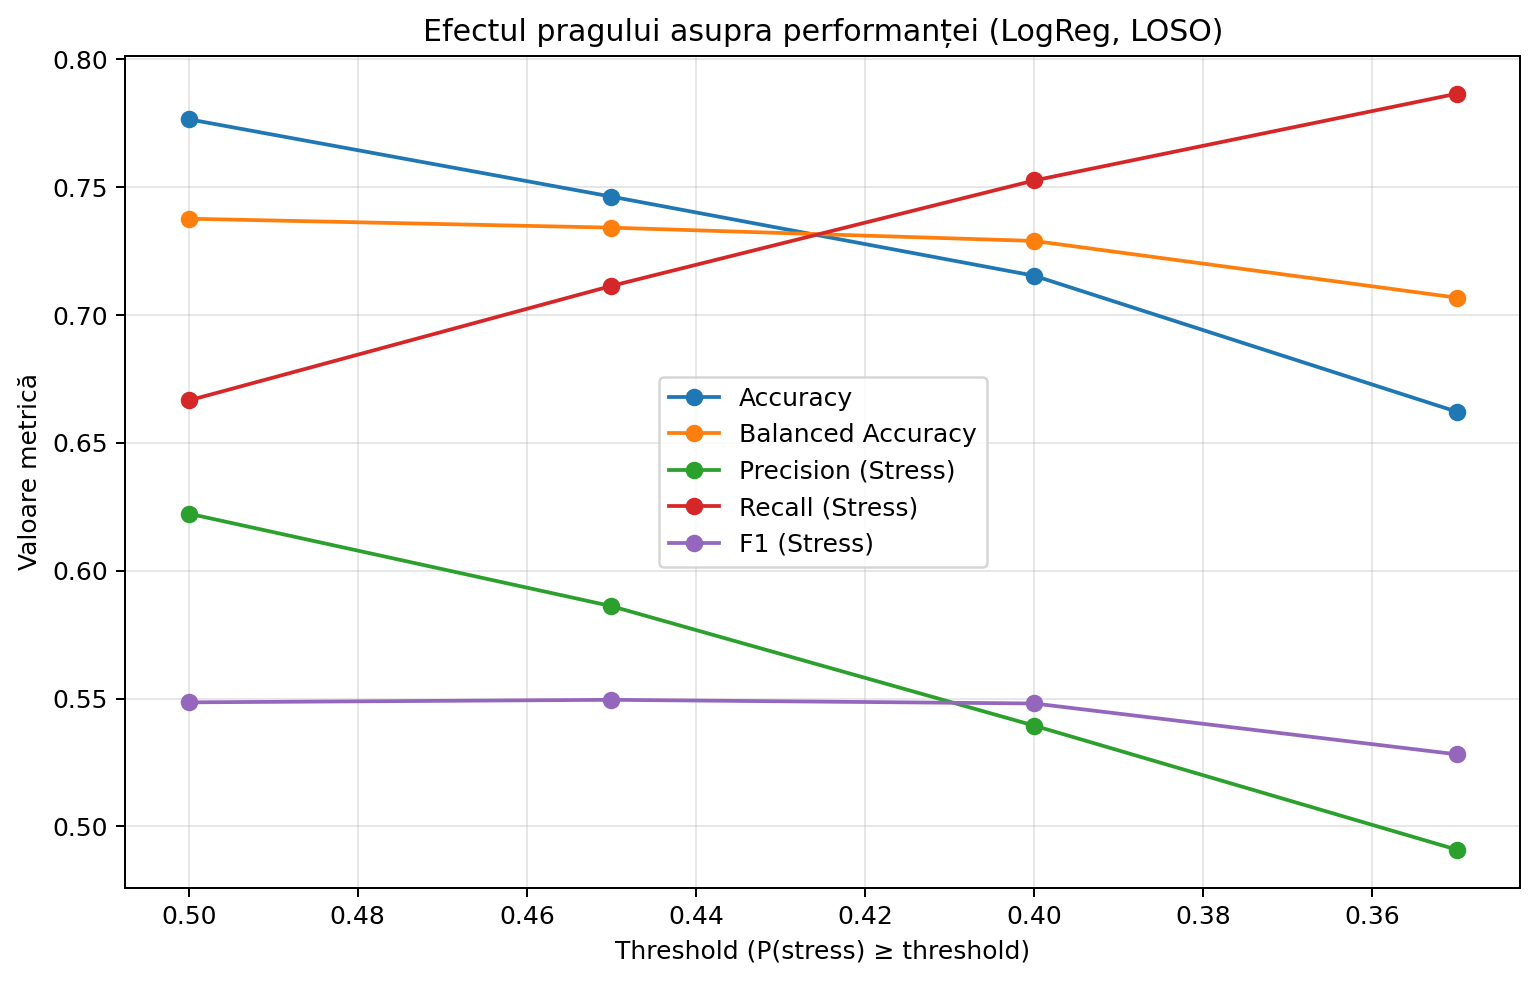
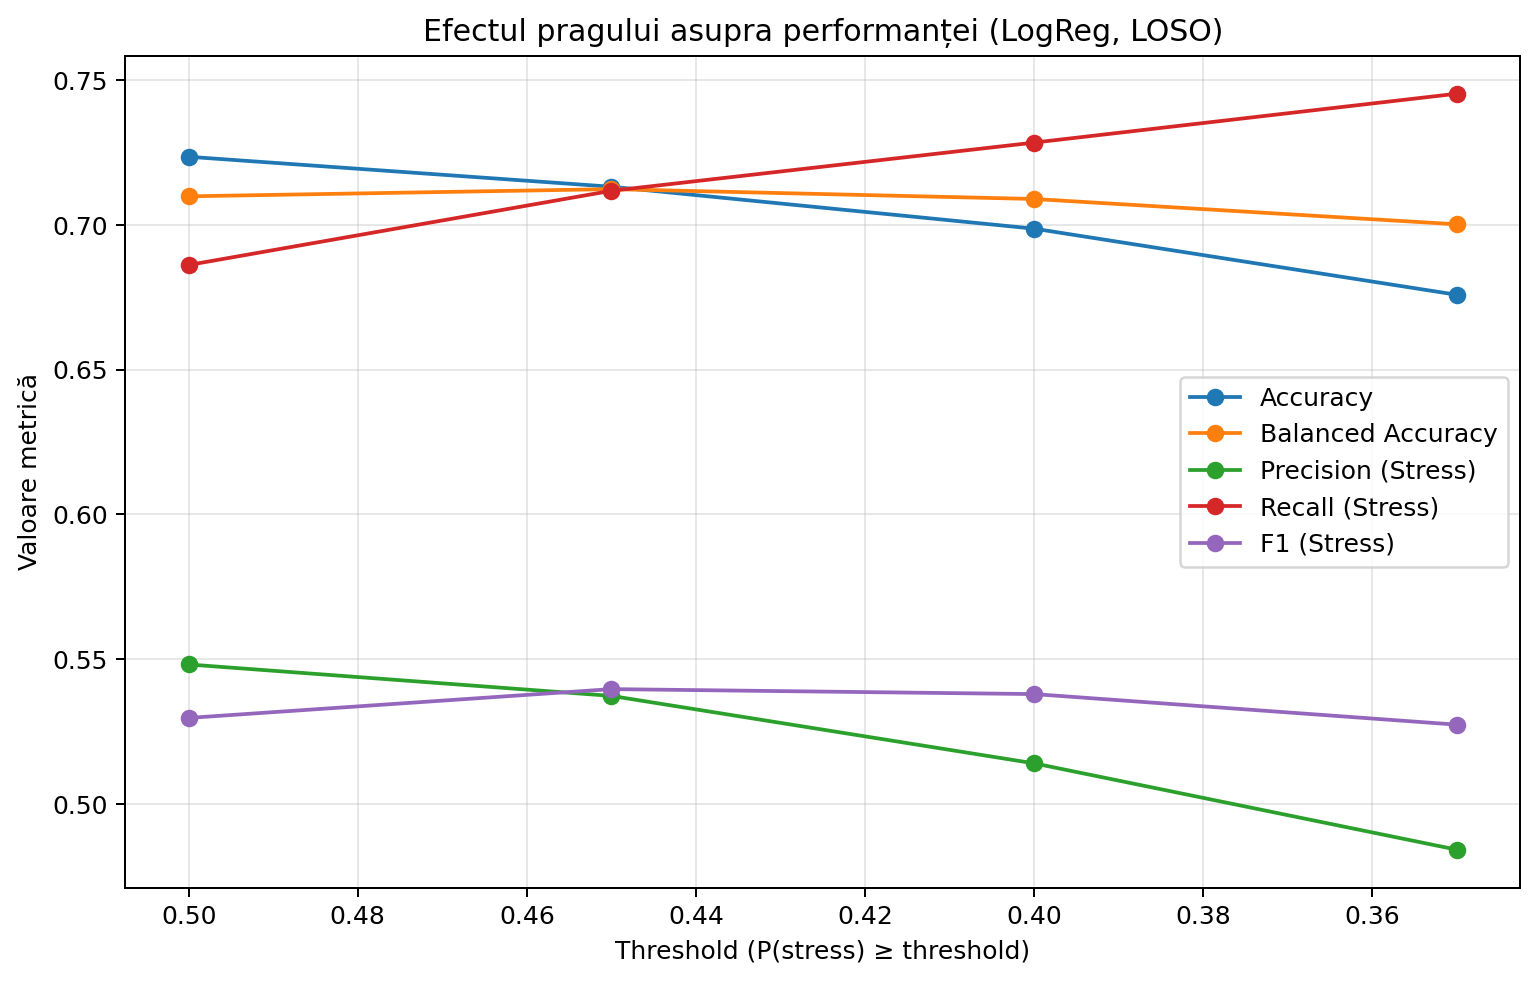
Am adaugat svm si featureile bune, nu cele de test

diff --git a/build_dataset.py b/build_dataset.py
@@ -7,50 +7,53 @@ import pandas as pd
 from preprocesare._01_incarcare_taiere import load_data_wesad, cut_30s, map_labels_to_binary_vector
 from preprocesare._02_filtrare_semnale import filter_eda, filter_bvp, filter_acc, filter_temp
 from feature_extraction._01_ferestre_feature import sliding_windows
+from feature_extraction._05_concateneaza_features import concatenate_features
+# (sau cum se numește fișierul în care ai concatenate_features)
+
 
 
 FS = {"ACC": 32, "BVP": 64, "EDA": 4, "TEMP": 4}
 FS_LABEL = 700
 
 
-def _extract_features_from_window(win_eda, win_bvp, win_temp, win_acc):
-    """
-    Feature-uri simple (baseline) per fereastră.
-    Returnează un dict -> devine un rând în tabel.
-    """
-    win_eda = np.asarray(win_eda, dtype=float).reshape(-1)
-    win_bvp = np.asarray(win_bvp, dtype=float).reshape(-1)
-    win_temp = np.asarray(win_temp, dtype=float).reshape(-1)
-    win_acc = np.asarray(win_acc, dtype=float)  # (N,3)
+# def _extract_features_from_window(win_eda, win_bvp, win_temp, win_acc):
+#     """
+#     Feature-uri simple (baseline) per fereastră.
+#     Returnează un dict -> devine un rând în tabel.
+#     """
+#     win_eda = np.asarray(win_eda, dtype=float).reshape(-1)
+#     win_bvp = np.asarray(win_bvp, dtype=float).reshape(-1)
+#     win_temp = np.asarray(win_temp, dtype=float).reshape(-1)
+#     win_acc = np.asarray(win_acc, dtype=float)  # (N,3)
 
-    # magnitudinea ACC
-    if win_acc.ndim == 2 and win_acc.shape[1] == 3:
-        acc_mag = np.sqrt(np.sum(win_acc * win_acc, axis=1))
-    else:
-        acc_mag = win_acc.reshape(-1)
+#     # magnitudinea ACC
+#     if win_acc.ndim == 2 and win_acc.shape[1] == 3:
+#         acc_mag = np.sqrt(np.sum(win_acc * win_acc, axis=1))
+#     else:
+#         acc_mag = win_acc.reshape(-1)
 
-    def safe_stats(x):
-        x = x[np.isfinite(x)]
-        if x.size == 0:
-            return 0.0, 0.0, 0.0, 0.0
-        return float(np.mean(x)), float(np.std(x)), float(np.min(x)), float(np.max(x))
+#     def safe_stats(x):
+#         x = x[np.isfinite(x)]
+#         if x.size == 0:
+#             return 0.0, 0.0, 0.0, 0.0
+#         return float(np.mean(x)), float(np.std(x)), float(np.min(x)), float(np.max(x))
 
-    eda_mean, eda_std, eda_min, eda_max = safe_stats(win_eda)
-    bvp_mean, bvp_std, bvp_min, bvp_max = safe_stats(win_bvp)
-    temp_mean, temp_std, temp_min, temp_max = safe_stats(win_temp)
-    acc_mean, acc_std, acc_min, acc_max = safe_stats(acc_mag)
+#     eda_mean, eda_std, eda_min, eda_max = safe_stats(win_eda)
+#     bvp_mean, bvp_std, bvp_min, bvp_max = safe_stats(win_bvp)
+#     temp_mean, temp_std, temp_min, temp_max = safe_stats(win_temp)
+#     acc_mean, acc_std, acc_min, acc_max = safe_stats(acc_mag)
 
-    return {
-        "eda_mean": eda_mean, "eda_std": eda_std, "eda_min": eda_min, "eda_max": eda_max,
-        "bvp_mean": bvp_mean, "bvp_std": bvp_std, "bvp_min": bvp_min, "bvp_max": bvp_max,
-        "temp_mean": temp_mean, "temp_std": temp_std, "temp_min": temp_min, "temp_max": temp_max,
-        "acc_mean": acc_mean, "acc_std": acc_std, "acc_min": acc_min, "acc_max": acc_max,
-    }
+#     return {
+#         "eda_mean": eda_mean, "eda_std": eda_std, "eda_min": eda_min, "eda_max": eda_max,
+#         "bvp_mean": bvp_mean, "bvp_std": bvp_std, "bvp_min": bvp_min, "bvp_max": bvp_max,
+#         "temp_mean": temp_mean, "temp_std": temp_std, "temp_min": temp_min, "temp_max": temp_max,
+#         "acc_mean": acc_mean, "acc_std": acc_std, "acc_min": acc_min, "acc_max": acc_max,
+#     }
 
 
 def build_full_dataset(
     wesad_dir,
-    window_s=30,
+    window_s=60,
     step_s=5,
     max_transition_ratio=0.25,
     exclude_subjects=("S12",),
@@ -104,11 +107,22 @@ def build_full_dataset(
             continue
 
         # 5) features per fereastră
-        for i in range(len(y_win)):
-            feats = _extract_features_from_window(w_eda[i], w_bvp[i], w_temp[i], w_acc[i])
-            rows.append(feats)
-            y_all.append(int(y_win[i]))
-            groups.append(subj)
+        feat_rows = concatenate_features(
+            window_eda=w_eda,
+            window_bvp=w_bvp,
+            window_temp=w_temp,
+            window_acc=w_acc,
+            fs_bvp=FS["BVP"]
+        )
+        if len(feat_rows) != len(y_win):
+            raise RuntimeError(
+                f"{subj}: mismatch ferestre: feat_rows={len(feat_rows)} vs y_win={len(y_win)}"
+            )
+
+# feat_rows are aceeași lungime ca y_win
+        rows.extend(feat_rows)
+        y_all.extend([int(v) for v in y_win])
+        groups.extend([subj] * len(y_win))
 
         print(f"[OK] {subj}: ferestre={len(y_win)}")
 
@@ -129,13 +143,15 @@ def build_full_dataset(
     return X, y, groups
 
 
-def save_feature_dataset(X, y, groups, out_path):
-    os.makedirs(os.path.dirname(out_path), exist_ok=True)
+def save_feature_dataset(X, y, groups, out_path1,out_path2):
+    os.makedirs(os.path.dirname(out_path1), exist_ok=True)
     df = X.copy()
     df["y"] = y.astype(int)
     df["group"] = groups
-    df.to_parquet(out_path, index=False)
-    print(f"[SALVAT] {out_path}")
+    df.to_parquet(out_path1, index=False)
+    print(f"[SALVAT] {out_path1}")
+    df.to_csv(out_path2, index=False)
+    print(f"[SALVAT] {out_path2}")
 
 
 def load_feature_dataset(path):

diff --git a/main.py b/main.py
@@ -33,7 +33,9 @@ from modele.run_loso import run_loso
 # =========================
 
 LOAD_FROM_PARQUET = True
-FEATURES_PATH = "data/features/wesad_features_all.parquet"
+FEATURES_PATH1 = "./data/features/wesad_features_all.parquet"
+FEATURES_PATH2 = "./data/features/wesad_features_all.csv"
+FEATURES_PATH_WITHOUT_ACC = "./data/features/wesad_features_no_acc.parquet"
 WESAD_PATH = "data/WESAD"
 
 # Foldere output
@@ -47,9 +49,10 @@ FIGS_DIR = Path("figs_dataset")   # aici salvăm figura cu pragurile
 
 RUN_RF = False
 RUN_LOGREG = True
+RUN_SVM = False
 
 # ✅ switch simplu (nu mai comentezi cod)
-RUN_SWEEP = False   # True doar când vrei analiza pragurilor
+RUN_SWEEP = True   # True doar când vrei analiza pragurilor
 
 # Pragul final (ales după analiză)
 BEST_THRESHOLD = 0.40
@@ -71,13 +74,13 @@ def main():
     # =========================
     if LOAD_FROM_PARQUET:
         print("[INFO] Încarc datasetul din parquet...")
-        X, y, groups = load_feature_dataset(FEATURES_PATH)
+        X, y, groups = load_feature_dataset(FEATURES_PATH1)
     else:
         print("[INFO] Construiesc datasetul din WESAD...")
         X, y, groups = build_full_dataset(WESAD_PATH)
 
         print("[INFO] Salvez datasetul pentru rulări viitoare...")
-        save_feature_dataset(X, y, groups, FEATURES_PATH)
+        save_feature_dataset(X, y, groups, FEATURES_PATH1,FEATURES_PATH2)
 
     print("\n[INFO] Dataset încărcat:")
     print("  X shape:", X.shape)
@@ -116,7 +119,15 @@ def main():
         out_rf = RESULTS_DIR / "loso_rf.csv"
         res_rf.to_csv(out_rf, index=False)
         print(f"[SALVAT] {out_rf}")
-
+    # =========================
+    # (opțional) SVM
+    # =========================
+    if RUN_SVM:
+        print("\n[INFO] Rulez SVM (LOSO)...")
+        res_svm = run_loso(X, y, groups, model_name="svm")
+        out_svm = RESULTS_DIR / "loso_svm.csv"
+        res_svm.to_csv(out_svm, index=False)
+        print(f"[SALVAT] {out_svm}")
 
 # ============================================================
 # FUNCȚIE: THRESHOLD SWEEP + CSV + FIGURĂ (cu legendă)

diff --git a/modele/run_loso.py b/modele/run_loso.py
@@ -5,6 +5,7 @@ from sklearn.model_selection import LeaveOneGroupOut
 from sklearn.pipeline import Pipeline
 from sklearn.impute import SimpleImputer
 from sklearn.preprocessing import StandardScaler
+from sklearn.svm import SVC
 
 from sklearn.linear_model import LogisticRegression
 from sklearn.ensemble import RandomForestClassifier
@@ -45,6 +46,7 @@ def run_loso(
             random_state=42
         )
         use_proba = True
+        ### prin class_weight="balanced" gestionez dezechilibrul claselor, creste penalizarea eroriilor pe clasa minoritara
     elif model_name == "rf":
         clf = RandomForestClassifier(
             n_estimators=400,
@@ -53,18 +55,27 @@ def run_loso(
             n_jobs=-1
         )
         use_proba = True
+    elif model_name == "svm":
+        clf = SVC(
+            kernel="rbf",
+            probability=True,
+            class_weight="balanced",
+            random_state=42
+        )
+        use_proba = True
     else:
-        raise ValueError("model_name must be 'logreg' or 'rf'")
+        raise ValueError("model_name must be 'logreg', 'rf', or 'svm'")
+
 
     # =========================
     # 2) Pipeline
     # =========================
     pipe = Pipeline([
         ("imputer", SimpleImputer(strategy="median")),
-        ("scaler", StandardScaler()),
+        ("scaler", StandardScaler()),    
         ("clf", clf)
     ])
-
+    ## prin imputer cu mediană evit NaN-urile (dacă există), prin StandardScaler normalizez datele Z-score      
     cm_total = np.zeros((2, 2), dtype=int)
 
     # =========================
@@ -104,7 +115,9 @@ def run_loso(
         print(
             f"[Fold {fold:02d}] "
             f"Recall_stress={m['recall_stress']:.3f} | "
-            f"F1_stress={m['f1_stress']:.3f}"
+            f"F1_stress={m['f1_stress']:.3f} |"
+            f"Balanced_Acc={m['balanced_accuracy']:.3f} |"
+            f"Acc={m['accuracy']:.3f}"
         )
 
     df_res = pd.DataFrame(results)
